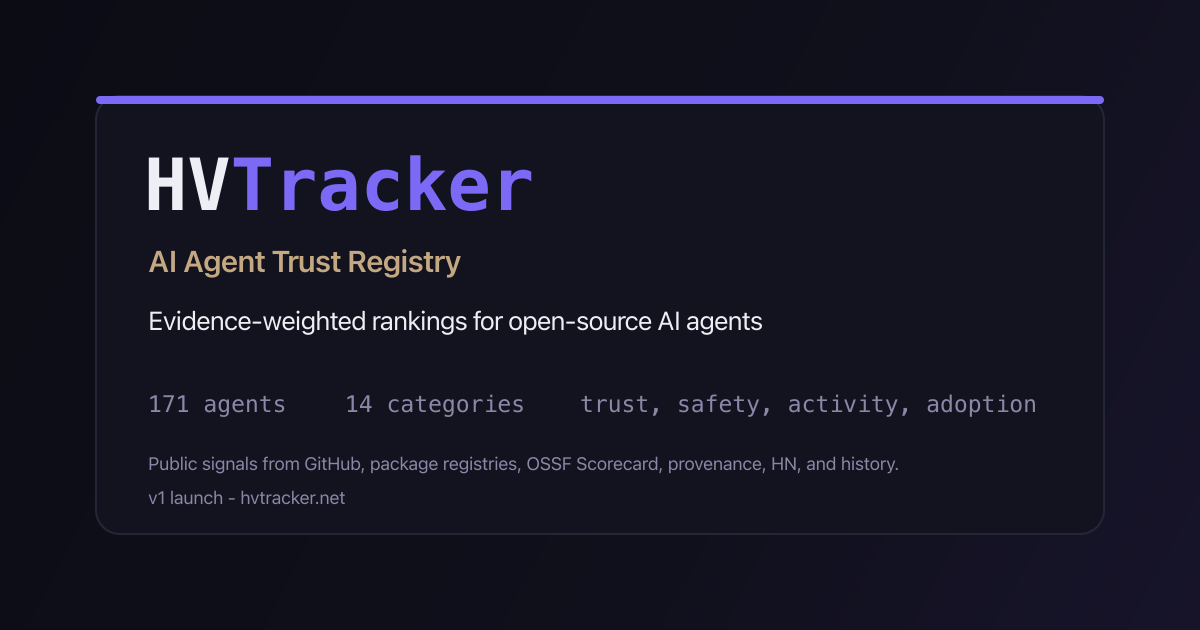
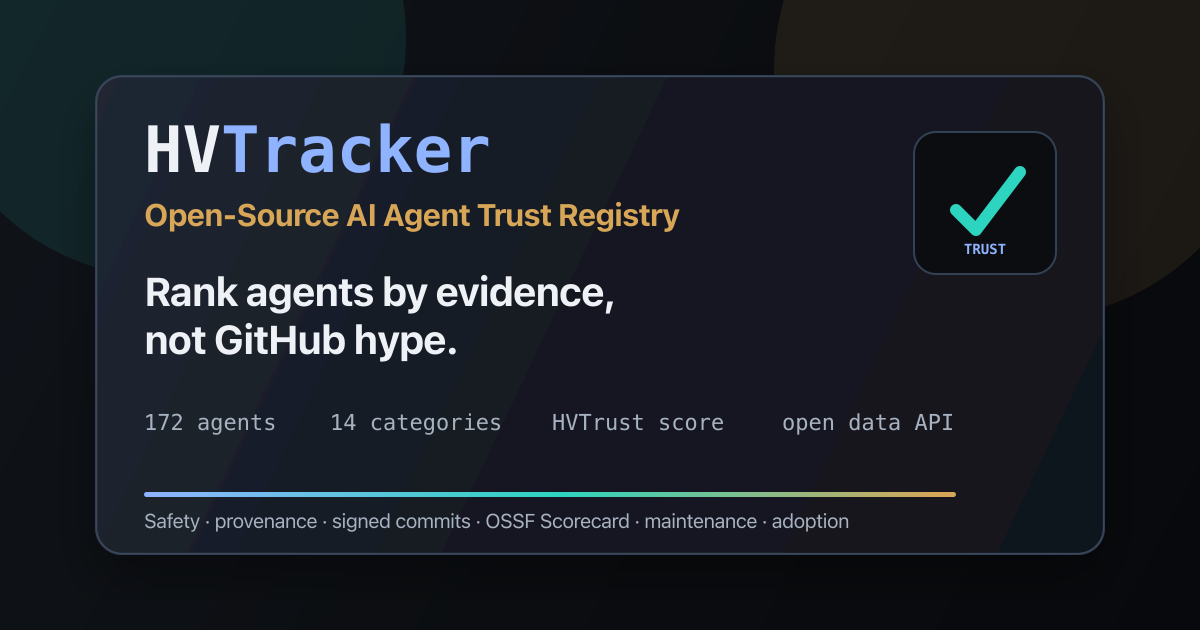
docs: refresh README and social preview

diff --git a/index.html b/index.html
@@ -3,13 +3,13 @@
 <head>
   <meta charset="UTF-8">
   <meta name="viewport" content="width=device-width, initial-scale=1.0">
-  <meta name="description" content="HVTracker is an open-source AI agent leaderboard and trust registry ranking agents by activity, adoption, transparency, safety, provenance, OSSF Scorecard, signed commits, and evidence.">
-  <title>HVTracker — AI Agent Trust Registry & Open-Source Agent Leaderboard</title>
+  <meta name="description" content="HVTracker is an open-source AI agent trust registry ranking 172 agents by evidence-weighted HVTrust signals: safety, provenance, transparency, maintenance, and adoption.">
+  <title>HVTracker — Open-Source AI Agent Trust Registry</title>
   <link rel="canonical" href="https://hvtracker.net/">
   <link rel="alternate" type="application/feed+json" title="HVTracker — JSON Feed" href="/feed.json">
   <meta property="og:type" content="website">
   <meta property="og:title" content="HVTracker — Open-Source AI Agent Trust Registry">
-  <meta property="og:description" content="HVTracker is an open-source AI agent leaderboard and trust registry ranking agents by activity, adoption, transparency, safety, provenance, OSSF Scorecard, signed commits, and evidence.">
+  <meta property="og:description" content="Evidence-weighted trust scores for 172 open-source AI agents. Compare safety, provenance, transparency, maintenance, adoption, OSSF Scorecard, and signed commits.">
   <meta property="og:url" content="https://hvtracker.net/">
   <meta property="og:image" content="https://hvtracker.net/og-v1.png">
   <meta property="og:image:secure_url" content="https://hvtracker.net/og-v1.png">
@@ -21,7 +21,7 @@
   <meta name="twitter:domain" content="hvtracker.net">
   <meta name="twitter:url" content="https://hvtracker.net/">
   <meta name="twitter:title" content="HVTracker — Open-Source AI Agent Trust Registry">
-  <meta name="twitter:description" content="HVTracker is an open-source AI agent leaderboard and trust registry ranking agents by activity, adoption, transparency, safety, provenance, OSSF Scorecard, signed commits, and evidence.">
+  <meta name="twitter:description" content="Evidence-weighted trust scores for 172 open-source AI agents. Compare safety, provenance, transparency, maintenance, adoption, OSSF Scorecard, and signed commits.">
   <meta name="twitter:image" content="https://hvtracker.net/og-v1.png">
   <meta name="twitter:image:alt" content="HVTracker AI Agent Trust Registry preview">
   <script type="application/ld+json">
@@ -31,7 +31,7 @@
     "name": "HVTracker",
     "alternateName": "HVTracker AI Agent Trust Registry",
     "url": "https://hvtracker.net/",
-    "description": "HVTracker is an open-source AI agent leaderboard and trust registry ranking agents by activity, adoption, transparency, safety, provenance, OSSF Scorecard, signed commits, and evidence.",
+    "description": "HVTracker is an open-source AI agent trust registry ranking agents by evidence-weighted HVTrust signals: safety, provenance, transparency, maintenance, and adoption.",
     "inLanguage": "en",
     "potentialAction": {
       "@type": "SearchAction",
@@ -960,7 +960,7 @@
         <a href="/methodology">Methodology</a>
       </nav>
       <div class="meta">
-        <span class="live-dot"></span>updated 2026-05-29 17:11 UTC<br>
+        <span class="live-dot"></span>updated 2026-05-29 17:17 UTC<br>
         staggered 4-hour signal refresh
       </div>
     </header>

diff --git a/template.html b/template.html
@@ -3,13 +3,13 @@
 <head>
   <meta charset="UTF-8">
   <meta name="viewport" content="width=device-width, initial-scale=1.0">
-  <meta name="description" content="HVTracker is an open-source AI agent leaderboard and trust registry ranking agents by activity, adoption, transparency, safety, provenance, OSSF Scorecard, signed commits, and evidence.">
-  <title>HVTracker — AI Agent Trust Registry & Open-Source Agent Leaderboard</title>
+  <meta name="description" content="HVTracker is an open-source AI agent trust registry ranking {{ total }} agents by evidence-weighted HVTrust signals: safety, provenance, transparency, maintenance, and adoption.">
+  <title>HVTracker — Open-Source AI Agent Trust Registry</title>
   <link rel="canonical" href="https://hvtracker.net/">
   <link rel="alternate" type="application/feed+json" title="HVTracker — JSON Feed" href="/feed.json">
   <meta property="og:type" content="website">
   <meta property="og:title" content="HVTracker — Open-Source AI Agent Trust Registry">
-  <meta property="og:description" content="HVTracker is an open-source AI agent leaderboard and trust registry ranking agents by activity, adoption, transparency, safety, provenance, OSSF Scorecard, signed commits, and evidence.">
+  <meta property="og:description" content="Evidence-weighted trust scores for {{ total }} open-source AI agents. Compare safety, provenance, transparency, maintenance, adoption, OSSF Scorecard, and signed commits.">
   <meta property="og:url" content="https://hvtracker.net/">
   <meta property="og:image" content="https://hvtracker.net/og-v1.png">
   <meta property="og:image:secure_url" content="https://hvtracker.net/og-v1.png">
@@ -21,7 +21,7 @@
   <meta name="twitter:domain" content="hvtracker.net">
   <meta name="twitter:url" content="https://hvtracker.net/">
   <meta name="twitter:title" content="HVTracker — Open-Source AI Agent Trust Registry">
-  <meta name="twitter:description" content="HVTracker is an open-source AI agent leaderboard and trust registry ranking agents by activity, adoption, transparency, safety, provenance, OSSF Scorecard, signed commits, and evidence.">
+  <meta name="twitter:description" content="Evidence-weighted trust scores for {{ total }} open-source AI agents. Compare safety, provenance, transparency, maintenance, adoption, OSSF Scorecard, and signed commits.">
   <meta name="twitter:image" content="https://hvtracker.net/og-v1.png">
   <meta name="twitter:image:alt" content="HVTracker AI Agent Trust Registry preview">
   <script type="application/ld+json">
@@ -31,7 +31,7 @@
     "name": "HVTracker",
     "alternateName": "HVTracker AI Agent Trust Registry",
     "url": "https://hvtracker.net/",
-    "description": "HVTracker is an open-source AI agent leaderboard and trust registry ranking agents by activity, adoption, transparency, safety, provenance, OSSF Scorecard, signed commits, and evidence.",
+    "description": "HVTracker is an open-source AI agent trust registry ranking agents by evidence-weighted HVTrust signals: safety, provenance, transparency, maintenance, and adoption.",
     "inLanguage": "en",
     "potentialAction": {
       "@type": "SearchAction",

diff --git a/README.md b/README.md
@@ -1,57 +1,81 @@
 # HVTracker
 
-**AI Agent Trust Registry**
+**Open-source AI Agent Trust Registry**
 
-**Live:** [hvtracker.net](https://hvtracker.net)  
-**Public data API:** [hvtracker.net/data/latest.json](https://hvtracker.net/data/latest.json)
+[hvtracker.net](https://hvtracker.net) ranks open-source AI agents by evidence-weighted trust signals, not GitHub hype.
 
-HVTracker ranks open-source AI agent projects by evidence-weighted trust, not only stars. The v1 launch tracks **171 agents** across **14 categories**, with public signals for activity, adoption, transparency, safety, identity, provenance, and rank movement.
+HVTracker tracks **172 active agents** across **14 categories** and publishes public, machine-readable trust data for each project: activity, adoption, transparency, supply-chain safety, identity, provenance, evidence grade, and rank movement.
 
-The goal is simple: help builders, researchers, and security-minded teams answer, "Which AI agent projects look active, adopted, transparent, and verifiable right now?"
+The core question is simple:
+
+> Which open-source AI agent projects look active, adopted, transparent, and verifiable right now?
 
 ---
 
-## V1 Snapshot
+## What You Can Do
 
-- **171** active open-source AI agent projects
+- Browse the live trust registry: [hvtracker.net](https://hvtracker.net)
+- Compare agents side by side: [hvtracker.net/compare](https://hvtracker.net/compare/)
+- Read category comparison guides: [hvtracker.net/blog](https://hvtracker.net/blog/)
+- Use the public API: [hvtracker.net/data/latest.json](https://hvtracker.net/data/latest.json)
+- Embed live trust badges in project READMEs
+
+---
+
+## Current Snapshot
+
+- **172** active open-source AI agent projects
 - **14** curated categories
 - **6** staggered refresh batches per day
+- **24h** full refresh cycle
 - **90-day** per-agent history where available
-- Public JSON endpoints for the leaderboard, per-agent records, build reports, and selected signal files
+- **184** JSON feed items across agents and comparison guides
+- Static GitHub Pages site: no backend, no database, no React
 
-Signals refresh every 4 hours in batches. A full refresh cycle completes in 24 hours.
+Newly submitted agents are listed quickly using a pending-only refresh path, then normal cron jobs keep signals fresh.
 
 ---
 
-## What Makes It Different
+## Why HVTracker Exists
 
-Most agent lists are manually curated directories or popularity rankings. HVTracker combines curation with independently checkable public signals:
+Most AI agent directories are either manual lists or popularity rankings. Stars can tell you what is visible. They do not tell you whether a project has maintainers, a license, package provenance, signed commits, OSSF Scorecard data, or recent activity.
 
-The leaderboard ranks by the **HVTrust score**, not by popularity. HVTrust is gated and confidence-scaled — dimensions are weighted by how hard each signal is to fake, missing evidence lowers the score, staleness is penalised, and unverified or deprecated listings are capped below the verified tier:
+HVTracker combines curation with independently checkable public evidence. The default rank is **HVTrust**, a 0-100 score designed to reward verifiable trust signals and penalize thin evidence.
 
 ```text
-HVTrust = gate( confidence × [ Safety(30) + Identity(20) + Transparency(20)
-                               + Maintenance(20) + Adoption(10) ] − penalties )
+HVTrust = gate(
+  confidence x [ Safety(30) + Identity(20) + Transparency(20)
+                 + Maintenance(20) + Adoption(10) ]
+  - penalties
+)
 ```
 
-| Dimension | Max | What it measures | Forgeability |
-|---|---:|---|---|
-| **Safety / Integrity** | 30 | OSSF Scorecard, provenance, signed commits | very hard |
-| **Identity / Provenance** | 20 | Verified listing status and build provenance | hard |
-| **Transparency** | 20 | License and OSSF transparency checks | medium |
-| **Maintenance** | 20 | Commit freshness and 4-week activity | medium |
-| **Adoption** | 10 | Log-scaled, capped stars and downloads | easy |
+| Dimension | Max | What it measures |
+|---|---:|---|
+| Safety / Integrity | 30 | OSSF Scorecard, package provenance, signed commits |
+| Identity / Provenance | 20 | Verified listing status and build provenance |
+| Transparency | 20 | License and OSSF transparency checks |
+| Maintenance | 20 | Freshness and recent commit activity |
+| Adoption | 10 | Log-scaled, capped stars and package downloads |
 
-**Confidence** = present ÷ applicable signal types (floored at 0.4), shown alongside each score: an agent we have little verifiable evidence for cannot reach the top tier. Signals that cannot apply to an agent (e.g. package downloads for a project that ships no package) are excluded rather than counted as missing. See the [methodology](https://hvtracker.net/methodology) for the full model.
+Confidence is based on present vs applicable signal types. Thin evidence limits how high an agent can rank, even if it is popular.
 
-Each agent also receives an **evidence grade**:
+Read the full methodology: [hvtracker.net/methodology](https://hvtracker.net/methodology)
+
+---
+
+## Evidence Grades
+
+Each agent also receives an evidence grade so readers can separate score from evidence depth.
 
 | Grade | Meaning |
 |---|---|
-| A | Multiple independent signal types are available |
-| B | Strong public evidence, with some signal gaps |
+| A | Broad independent signal coverage |
+| B | Strong public evidence with some gaps |
 | C | Basic public evidence |
-| D | Mostly GitHub-only evidence |
+| D | Mostly GitHub-only or thin evidence |
+
+HVTracker is not a security certification. Missing provenance, Scorecard, or signature data can mean a signal is unavailable, not that a project is unsafe.
 
 ---
 
@@ -59,7 +83,7 @@ Each agent also receives an **evidence grade**:
 
 | Category | Count |
 |---|---:|
-| Agent Frameworks | 57 |
+| Agent Frameworks | 58 |
 | Coding Agents | 26 |
 | Memory & Knowledge | 20 |
 | Browser & Computer Use | 15 |
@@ -70,26 +94,57 @@ Each agent also receives an **evidence grade**:
 | LLM Gateways & Infra | 4 |
 | Protocols & Tool Integration | 4 |
 | Multi-Agent Systems | 3 |
+| Robotics & Embodied | 1 |
 | Voice & Conversational | 1 |
 | Sandboxes & Runtimes | 1 |
-| Robotics & Embodied | 1 |
 
 ---
 
-## Public Signals
+## Public Data API
 
-| Signal | Source |
+The public dataset is licensed under [CC BY 4.0](https://creativecommons.org/licenses/by/4.0/). CORS is open for public endpoints.
+
+| Endpoint | Description |
 |---|---|
-| Stars, forks, language, license, last push | GitHub REST API |
-| 4-week commit activity | GitHub Stats API and recent commits fallback |
-| Weekly downloads | npm Registry and PyPI/pypistats |
-| OSSF Scorecard | deps.dev API and weekly CLI scan |
-| Package provenance | npm and PyPI attestation endpoints |
-| Signed commit ratio | GitHub Commits API |
-| Hacker News mentions (30d) | Algolia HN Search API |
-| Public action fingerprints | GitHub Search API |
+| [`/data/latest.json`](https://hvtracker.net/data/latest.json) | Current public trust registry snapshot |
+| [`/data/agents/{slug}.json`](https://hvtracker.net/data/agents/dify.json) | Per-agent record with history, events, and trust credential |
+| [`/data/build_report.json`](https://hvtracker.net/data/build_report.json) | Build integrity report |
+| [`/data/signals/scorecard.json`](https://hvtracker.net/data/signals/scorecard.json) | OSSF Scorecard signal cache |
+| [`/data/signals/provenance.json`](https://hvtracker.net/data/signals/provenance.json) | Package provenance signal cache |
+| [`/feed.json`](https://hvtracker.net/feed.json) | JSON Feed with agents and comparison guides |
+| [`/llms.txt`](https://hvtracker.net/llms.txt) | LLM-readable project summary and key links |
 
-HVTracker is not a security certification. Missing provenance, Scorecard, or signature data can mean the signal is unavailable, not that a project is unsafe.
+---
+
+## Trust Badges
+
+Listed projects can embed live HVTrust and evidence-grade badges.
+
+```md
+[![HVTrust](https://hvtracker.net/badge/<slug>.svg)](https://hvtracker.net/agents/<slug>/)
+[![Evidence Grade](https://hvtracker.net/badge/<slug>-grade.svg)](https://hvtracker.net/agents/<slug>/)
+```
+
+Example:
+
+```md
+[![HVTrust](https://hvtracker.net/badge/dify.svg)](https://hvtracker.net/agents/dify/)
+[![Evidence Grade](https://hvtracker.net/badge/dify-grade.svg)](https://hvtracker.net/agents/dify/)
+```
+
+The exact snippet is shown on every agent profile page.
+
+---
+
+## SEO And Comparison Pages
+
+HVTracker publishes crawlable, data-backed comparison pages:
+
+- Category pages: `/categories/<category>/`
+- Agent comparison pages: `/compare/<agent-a>-vs-<agent-b>/`
+- Blog comparison guides: `/blog/<category>-top-agents/`
+
+These pages are generated from the current registry data, included in `sitemap.xml`, and linked from `feed.json` and `llms.txt`.
 
 ---
 
@@ -105,9 +160,21 @@ cache.json                                 data/agents/<slug>.json
 
 1. `fetch_and_build.py` reads curated agents from `agents.json`.
 2. Public APIs are fetched in parallel where safe and serially where rate limits require it.
-3. Scores, evidence grades, trust breakdowns, rank deltas, and per-agent histories are computed.
-4. Static pages, JSON endpoints, feed files, specs, sitemap, and build reports are generated.
+3. HVTrust scores, evidence grades, rank deltas, trust breakdowns, and events are computed.
+4. Static pages, JSON endpoints, badges, specs, feed files, sitemap, and build reports are generated.
 5. GitHub Pages serves the static site.
+
+### Build Modes
+
+```bash
+python fetch_and_build.py              # full refresh
+python fetch_and_build.py --batch 1/6  # one staggered batch
+python fetch_and_build.py --pending-only
+python fetch_and_build.py --render-only
+```
+
+- `--pending-only` refreshes newly listed agents without running a full batch.
+- `--render-only` rebuilds pages from cached render state without API calls.
 
 ---
 
@@ -119,8 +186,7 @@ cd hvtracker
 pip install -r requirements.txt
 
 export GITHUB_TOKEN=$(gh auth token)  # or a personal access token
-python fetch_and_build.py             # full build
-python fetch_and_build.py --batch 1/6 # one refresh batch
+python fetch_and_build.py --render-only
 
 python3 -m http.server 4173
 ```
@@ -129,9 +195,11 @@ Open [http://127.0.0.1:4173](http://127.0.0.1:4173).
 
 ---
 
-## Submitting Or Correcting An Agent
+## Submit Or Correct An Agent
 
-Use the [agent listing issue template](https://github.com/YugantM/hvtracker/issues/new?template=agent-listing.yml). A listed project should be:
+Use the [agent listing issue template](https://github.com/YugantM/hvtracker/issues/new?template=agent-listing.yml).
+
+A listed project should be:
 
 - A public, non-archived GitHub repository
 - Related to AI agents or agent infrastructure
@@ -142,49 +210,15 @@ Include the canonical repository, preferred display name, category suggestion, p
 
 ---
 
-## Public Data API
-
-The v1 public dataset is available under [CC BY 4.0](https://creativecommons.org/licenses/by/4.0/). CORS is open for public endpoints.
-
-| Endpoint | Description |
-|---|---|
-| [`/data/latest.json`](https://hvtracker.net/data/latest.json) | Current public leaderboard snapshot |
-| [`/data/agents/{slug}.json`](https://hvtracker.net/data/agents/dify.json) | Per-agent public detail with history and events |
-| [`/data/build_report.json`](https://hvtracker.net/data/build_report.json) | Build integrity report |
-| [`/data/signals/scorecard.json`](https://hvtracker.net/data/signals/scorecard.json) | OSSF Scorecard signal cache |
-| [`/data/signals/provenance.json`](https://hvtracker.net/data/signals/provenance.json) | Package provenance signal cache |
-
----
-
-## Trust Badges
-
-Listed projects can display their live HVTrust score and evidence grade. Badges regenerate every build, so they always reflect current data.
-
-| Badge | Markdown |
-|---|---|
-| HVTrust score | `[![HVTrust](https://hvtracker.net/badge/<slug>.svg)](https://hvtracker.net/agents/<slug>/)` |
-| Evidence grade | `[![HVTrust Grade](https://hvtracker.net/badge/<slug>-grade.svg)](https://hvtracker.net/agents/<slug>/)` |
-
-Replace `<slug>` with your agent's slug (e.g. `langchain`, `aider`). The exact snippet for each agent is shown on its profile page.
-
----
-
 ## Specifications
 
-- [Trust Credential v0.1](https://hvtracker.net/spec/trust-credential/v0.1) - machine-readable trust record for agent-to-agent (A2A) verification
-- [Methodology v2.2](https://hvtracker.net/spec/methodology/v2.2) - scoring formula and signal definitions
-- [Eligibility v1.0](https://hvtracker.net/spec/eligibility/v1.0) - listing requirements
-- [Listing v0.1](https://hvtracker.net/spec/listing/v0.1) - listing lifecycle
-- [Data Schema v2.0](https://hvtracker.net/spec/data-schema/v2.0) - public API schema
-- [Provenance v0.1](https://hvtracker.net/spec/provenance/v0.1) - provenance detection
-- [Build Report v0.1](https://hvtracker.net/spec/build-report/v0.1) - build transparency
-
----
-
-## Launch And Business Notes
-
-- [V1 launch checklist and zero-budget marketing plan](docs/launch-v1.md)
-- [Open-core and company-readiness notes](docs/open-core.md)
+- [Trust Credential v0.1](https://hvtracker.net/spec/trust-credential/v0.1)
+- [Methodology v2.0](https://hvtracker.net/spec/methodology/v2.0)
+- [Eligibility v1.0](https://hvtracker.net/spec/eligibility/v1.0)
+- [Listing v0.1](https://hvtracker.net/spec/listing/v0.1)
+- [Data Schema v0.1](https://hvtracker.net/spec/data-schema/v0.1)
+- [Provenance v0.1](https://hvtracker.net/spec/provenance/v0.1)
+- [Build Report v0.1](https://hvtracker.net/spec/build-report/v0.1)
 
 ---
 
@@ -193,20 +227,21 @@ Replace `<slug>` with your agent's slug (e.g. `langchain`, `aider`). The exact s
 ```text
 hvtracker/
 ├── fetch_and_build.py        # Core build, scoring, and rendering
-├── template.html             # Leaderboard template
-├── templates/agent.html.j2   # Per-agent profile template
-├── templates/methodology.html.j2
+├── template.html             # Main registry template
+├── templates/                # Agent, category, blog, compare, and spec templates
 ├── agents.json               # Curated agent registry
-├── specs.py                  # Specification page generator
+├── specs.py                  # Specification content
 ├── scan_scorecards.py        # Weekly OSSF Scorecard scan
 ├── discover_agents.py        # Weekly discovery scan
 ├── docs/                     # Launch, research, and operating docs
 ├── data/                     # Generated public data endpoints
-└── agents/                   # Generated per-agent pages
+├── agents/                   # Generated per-agent pages
+├── badge/                    # Generated SVG badges
+└── blog/                     # Generated and static articles
 ```
 
 ---
 
 ## License
 
-The v1 public data is licensed under [CC BY 4.0](https://creativecommons.org/licenses/by/4.0/). Review [docs/open-core.md](docs/open-core.md) before changing the public/private data boundary for a future company-backed edition.
+The public data is licensed under [CC BY 4.0](https://creativecommons.org/licenses/by/4.0/). Review [docs/open-core.md](docs/open-core.md) before changing the public/private data boundary for a future company-backed edition.
